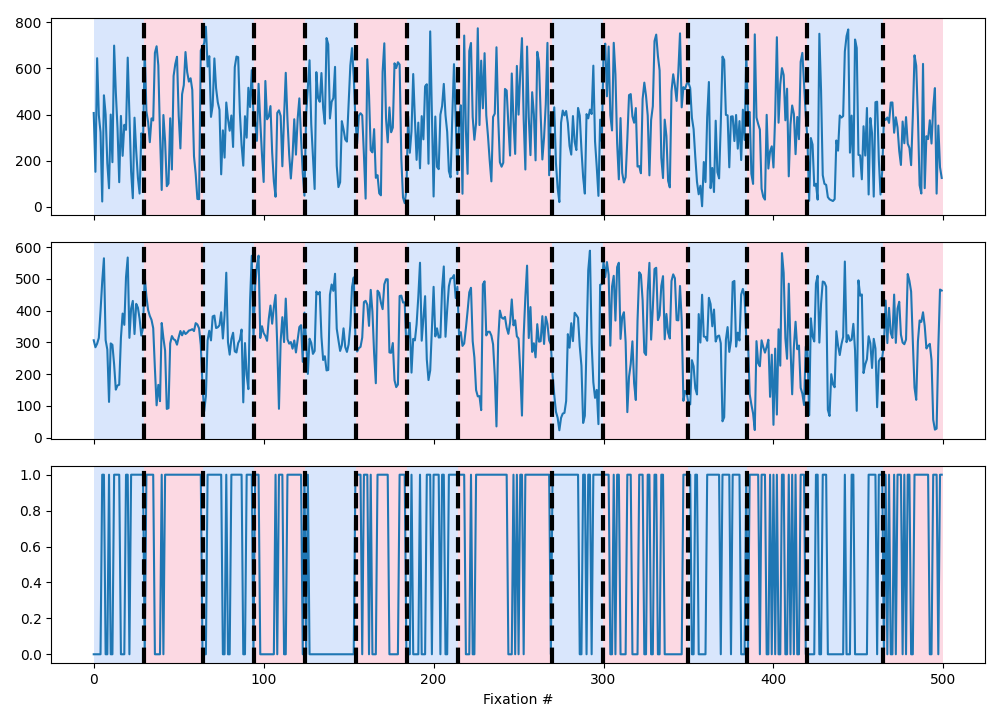
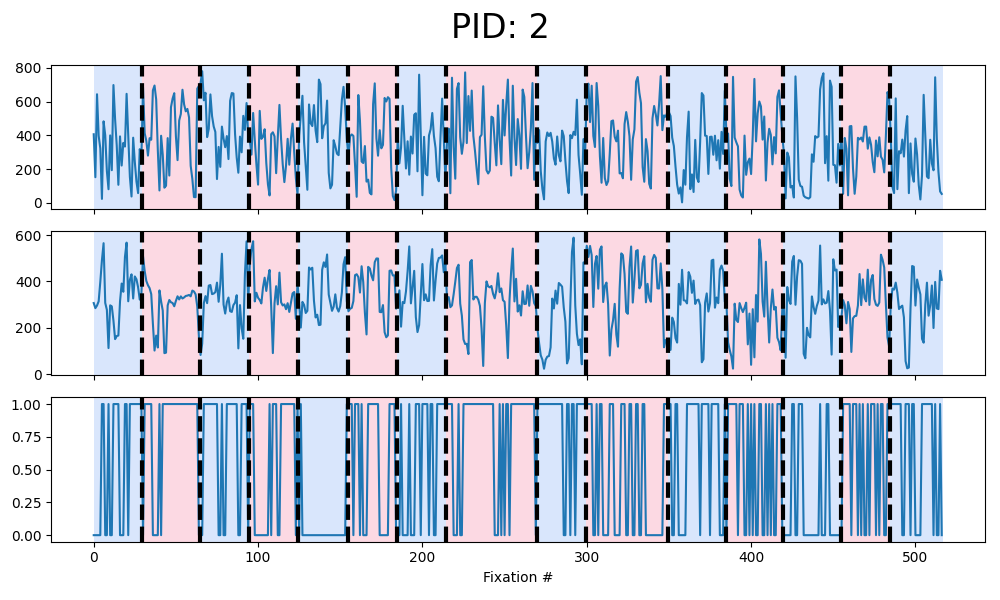
filter by participant ID

diff --git a/Switch-Point Analysis/main.py b/Switch-Point Analysis/main.py
@@ -11,7 +11,9 @@ signal, bkps = rpt.pw_constant(n_samples, dim, n_bkps, noise_std=sigma)
 '''
 
 #data = pd.read_csv('data.csv', usecols=['Trial', 'Fix_X', 'Fix_Y', 'SceneFix'], nrows = 500)
-data = pd.read_csv('data_exploit.csv', usecols=['Trial', 'Fix_X', 'Fix_Y', 'SceneFix'])
+data = pd.read_csv('data_exploit.csv', usecols=['Trial', 'Fix_X', 'Fix_Y', 'SceneFix', 'ParticipantID'])
+data = data[data['ParticipantID'] == 9]
+data = data.drop(columns=['ParticipantID'])
 data.set_index("Trial", inplace=True)
 data = data.sort_index()
 
@@ -25,4 +27,6 @@ result = algo.predict(pen=1)
 
 rpt_rewrite.display(test, result, result)
 plt.xlabel("Fixation #")
+plt.suptitle("PID: 9", fontsize=24)
+plt.tight_layout()
 plt.show()
